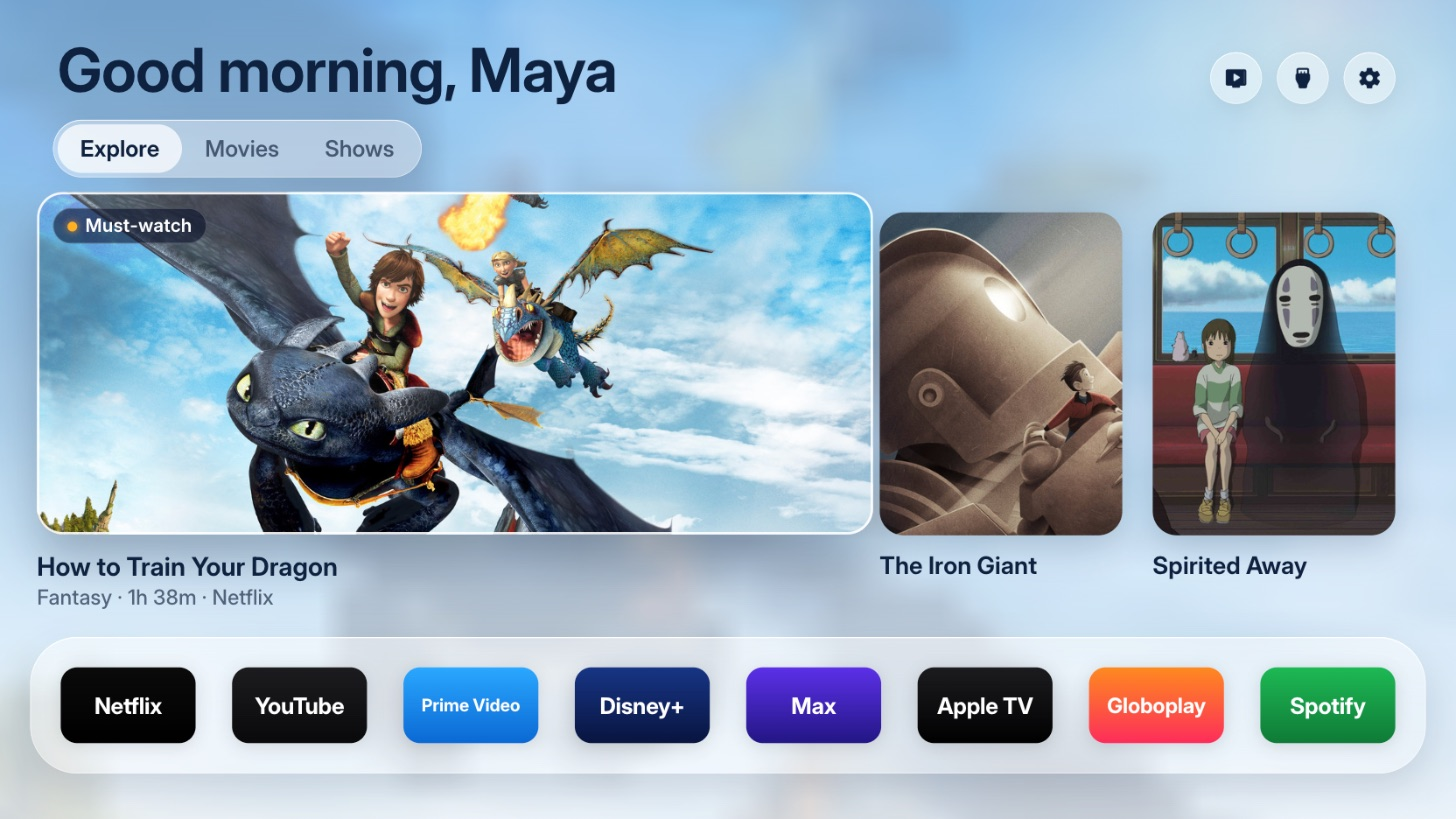
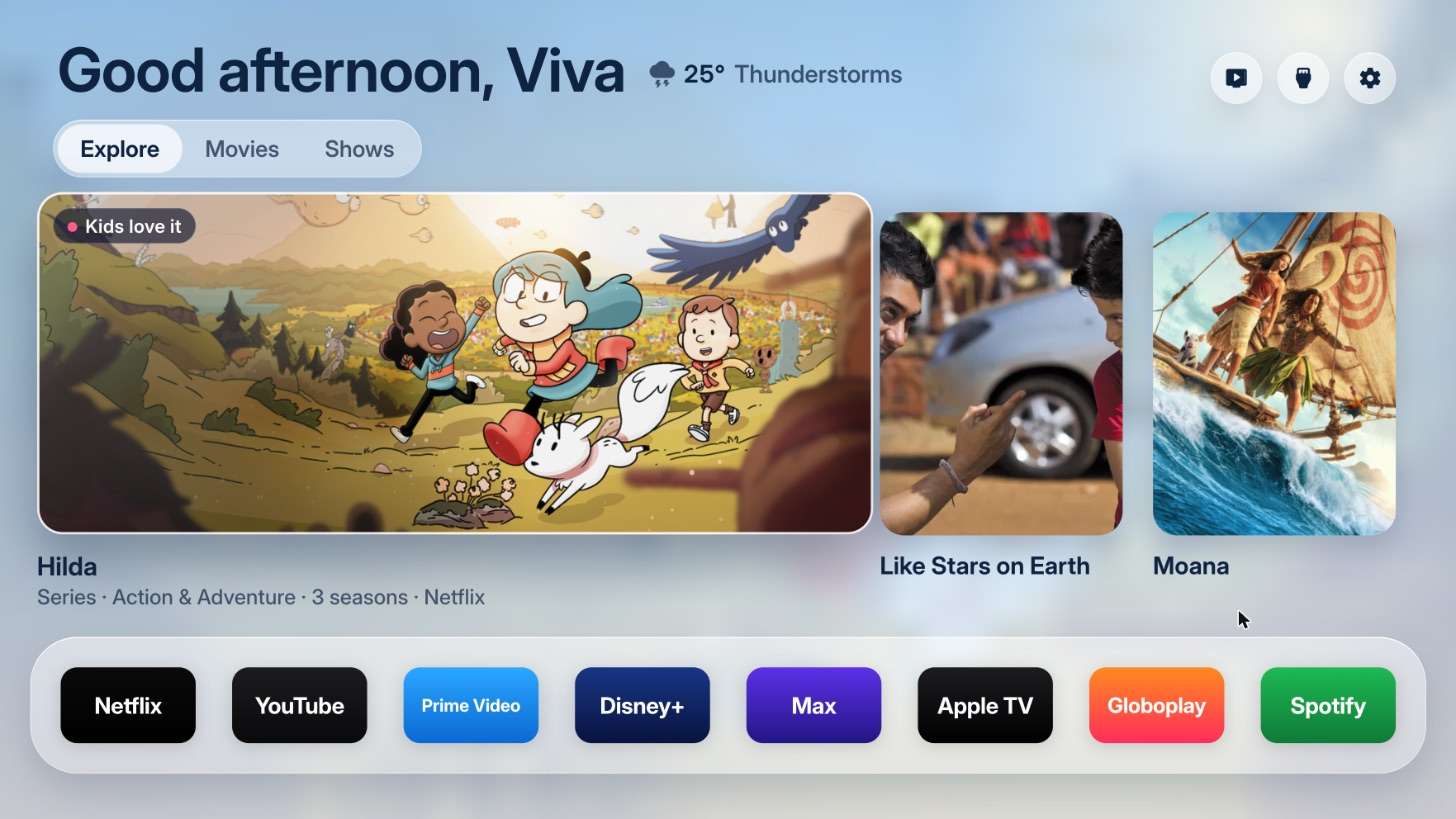
README: Viva, the weather greeting and Good night, bedtime timer; new day and night screenshots

diff --git a/README.md b/README.md
@@ -10,12 +10,13 @@ fun to watch, and leaving something behind (curiosity, kindness, courage, scienc
 
 Runs on Google TV and Android TV, and as an app on LG (webOS) and Samsung (Tizen) TVs.
 
-<img src="docs/images/home-day.jpg" width="49%" alt="My Kids TV by day: Good morning, Maya, three picks under a clear blue sky, How to Train Your Dragon focused with a Must-watch badge">
-<img src="docs/images/home-evening.jpg" width="49%" alt="My Kids TV in the evening: the same picks under a deep indigo sky with a few stars">
+<img src="docs/images/home-day.jpg" width="49%" alt="My Kids TV in the afternoon: Good afternoon, Viva, with the weather beside it, three picks under a clear blue sky, Hilda focused with a Kids love it badge">
+<img src="docs/images/home-evening.jpg" width="49%" alt="My Kids TV at night: Good night, Viva, the same picks under a deep indigo sky with a few stars">
 
 ## What your child sees
 
-- **A greeting** with their name: *Good morning, Maya*.
+- **A greeting** with their name and the weather in short: *Good afternoon, Viva · 25° Sunny*, and *Good night* once
+  it's late.
 - **Three picks**, changing every hour, from the catalog for their age: **4-6**, **7-10** or **11-13**.
 - **Why each one is worth it**: a small badge on the card, *Must-watch*, *Learn something* or *Kids love it*.
 - **Only what you can play**: a title appears only when it's on a streaming app you have (Netflix, Prime Video,
@@ -31,8 +32,10 @@ Runs on Google TV and Android TV, and as an app on LG (webOS) and Samsung (Tizen
 - **The YouTube button** on the remote can be made to do nothing (Haier, TCL, Hisense and Sony remotes); the YouTube
   app itself stays.
 - **Apps to hide**: turned off when the TV switches, never uninstalled.
-- **No ads, no tracking, no account.** Nothing about your child leaves the TV. The app only asks TMDB for titles and
+- **No ads, no tracking, no account, no crypto tickers or news.** Nothing about your child leaves the TV. The app only asks TMDB for titles and
   pictures and Open-Meteo for the weather.
+- **A bedtime timer**: the Sleep Timer turns the TV off after 5 minutes to 4 hours, with the minutes left shown on
+  screen.
 - **One button back**: *Original* restores the TV's own home screen and everything that was turned off. No root.
 
 ## The catalogs

diff --git a/CLAUDE.md b/CLAUDE.md
@@ -15,7 +15,7 @@ Ask these in one or two short batches, in plain words, with the choices shown. E
 | Ask | Why | Goes to |
 |---|---|---|
 | How old is your child? (several children: the youngest) Show the bands: **4-6**, **7-10**, **11-13**. | Picks the vetted catalog | `age_band` |
-| Your child's first name? (optional) | The home screen greets them: "Good morning, Maya" | `child_name` |
+| Your child's first name? (optional) | The home screen greets them: "Good morning, Viva" | `child_name` |
 | Which country and city do you live in? | Which titles are on which app in their country; weather and the evening dark theme | `tmdb_region`, `latitude`, `longitude`, `city` |
 | Which streaming apps do you pay for? (Netflix, Prime Video, JioHotstar, Disney+, ...) | Apps on the TV they don't subscribe to are left out of the picks | `hide_services` |
 | Should the remote's **YouTube button** do nothing? | Children can't jump into YouTube with one press (the YouTube app stays) | `block_youtube_button` |
